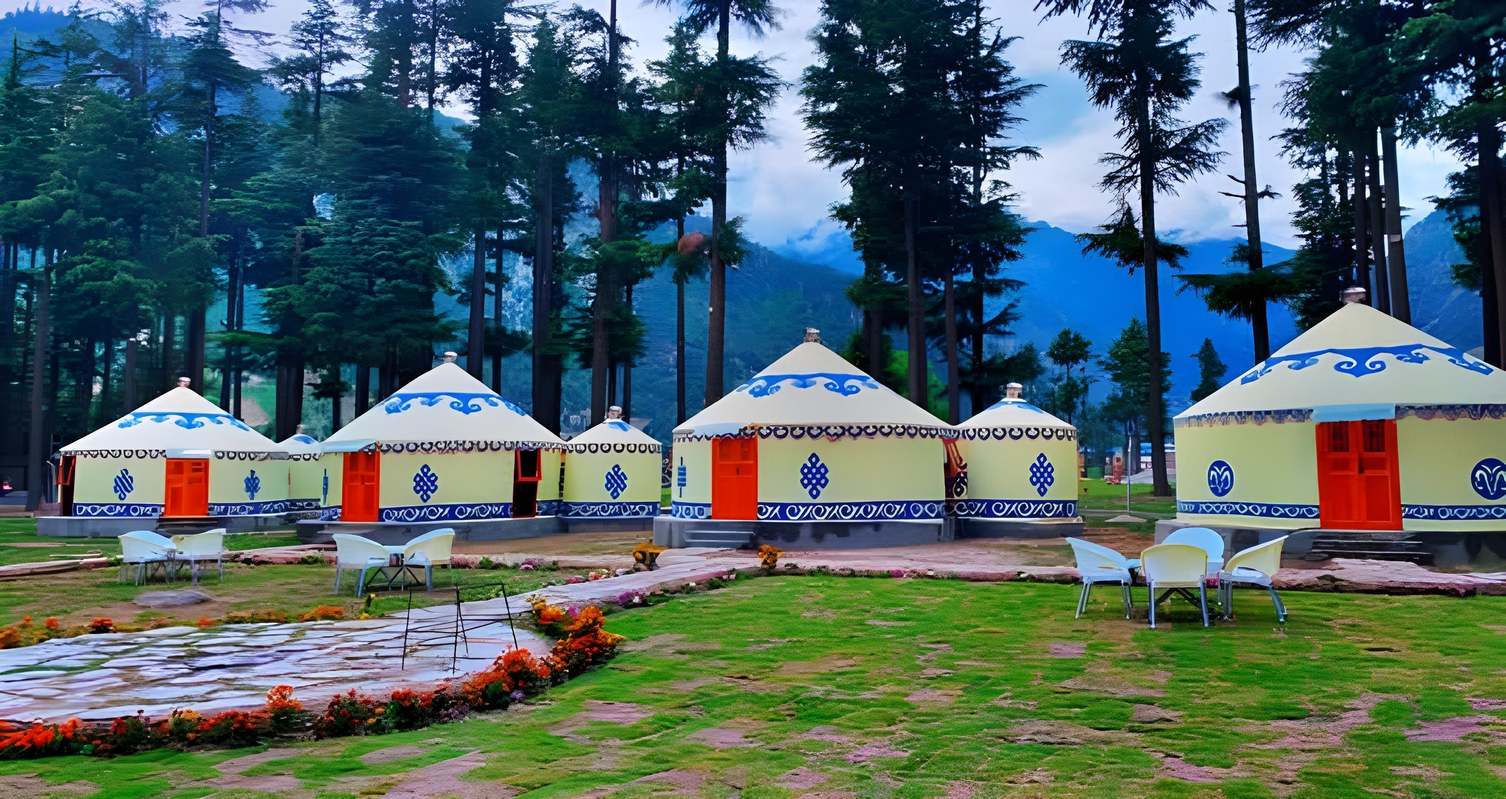
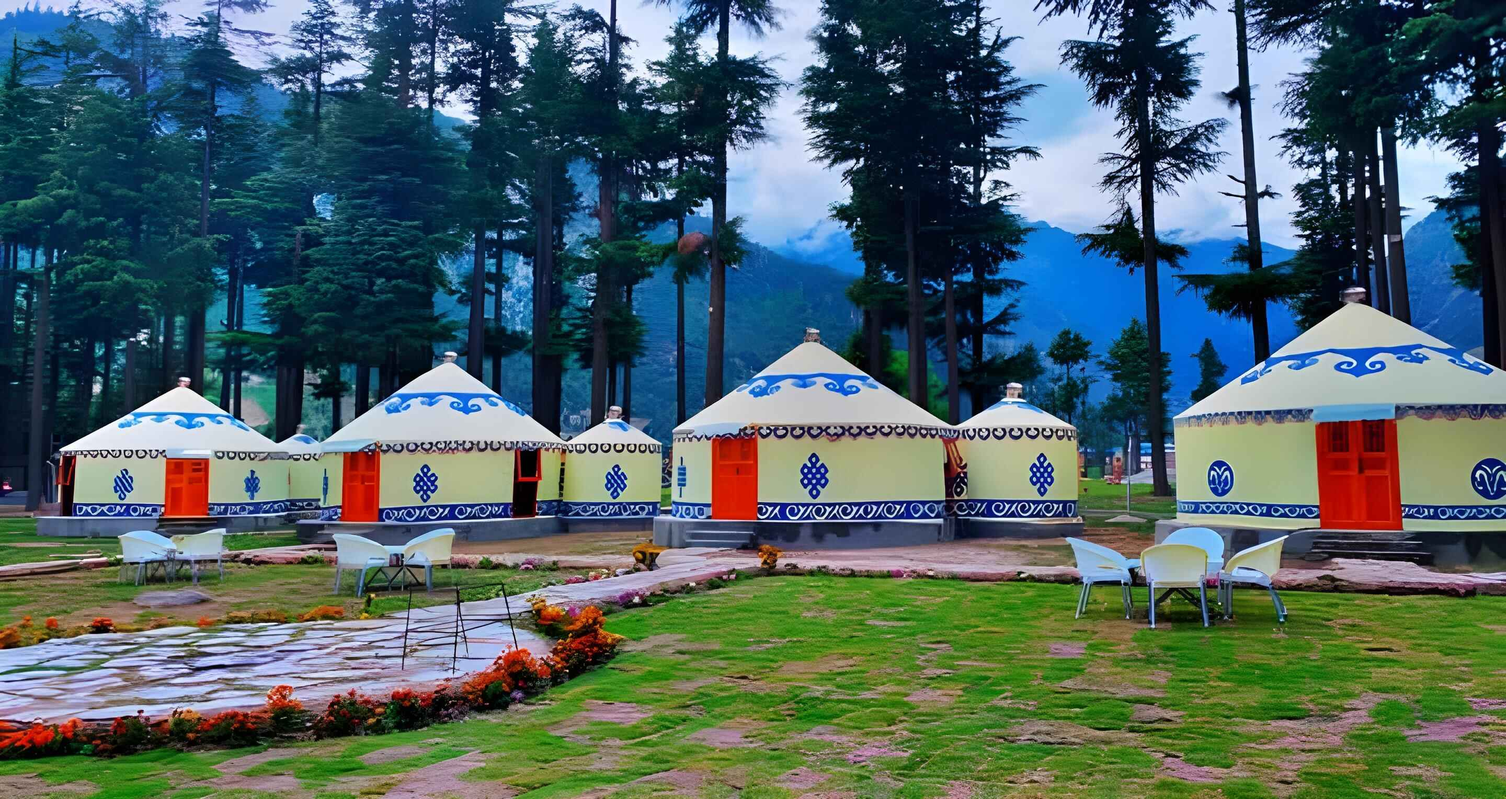
compressing the images

diff --git a/src/Components/Gallery.jsx b/src/Components/Gallery.jsx
@@ -220,11 +220,6 @@ const Gallery = () => {
         Swat Valley Beautiful Sceneries
       </h1>
       <AutoScrollGallery />
-      <div className="familyTours">
-        <h1 className="w-full mb-4 text-4xl font-bold text-center text-slate-800 xs:text-3xl sm:text-3xl md:text-4xl lg:text-5xl xl:text-6xl font-Manrope animate-fadeInFromTop">
-          Family Tours
-        </h1>
-      </div>
     </>
   );
 };

diff --git a/src/data/toursData.jsx b/src/data/toursData.jsx
@@ -738,9 +738,9 @@ export const foreignerPackages = [
       },
       pricing: {
         luxuryPackage: {
-          singleOrCouple: "3,50,000 pkr/-",
-          twoCouples: "6,00,000 pkr/-",
-          Family: "8,00,000 pkr/-",
+          singleOrCouple: "1,05,000 pkr/-",
+          twoCouples: "1,80,000 pkr/-",
+          Family: "2,50,000 pkr/-",
         },
       },
       inclusions: [
